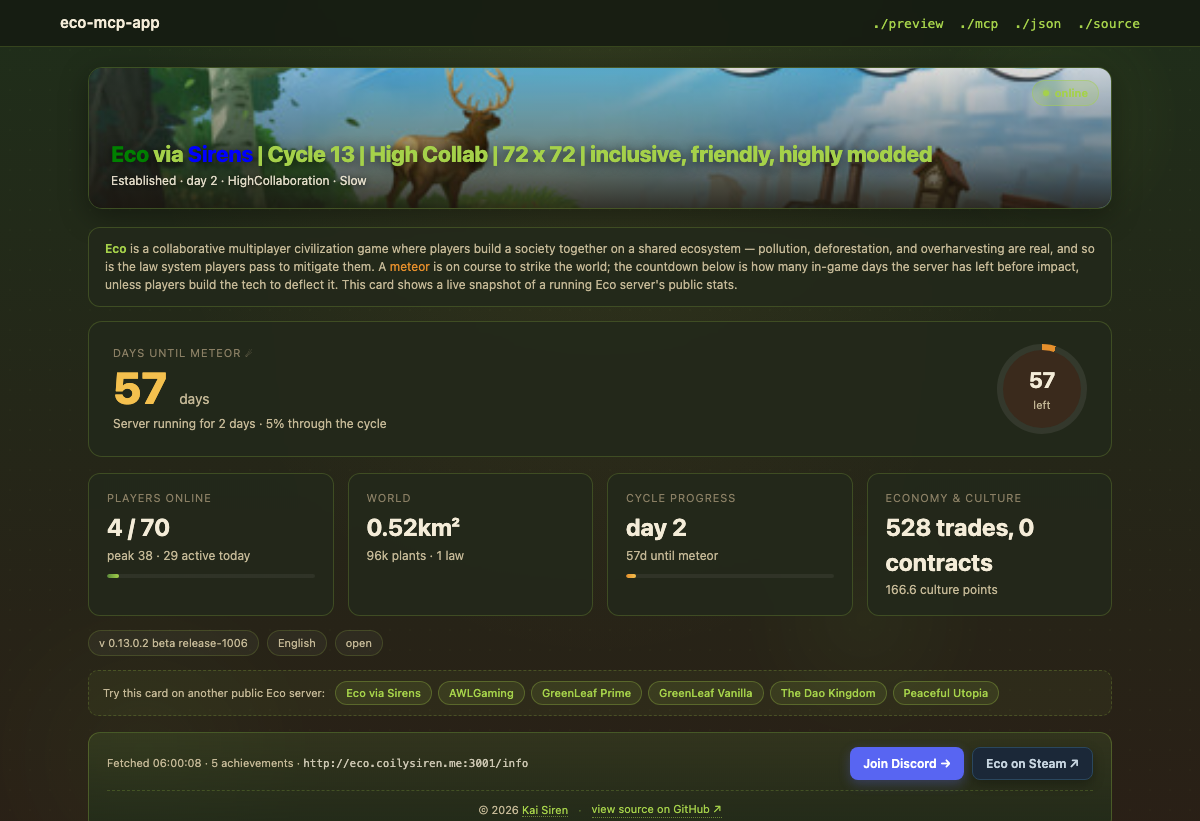
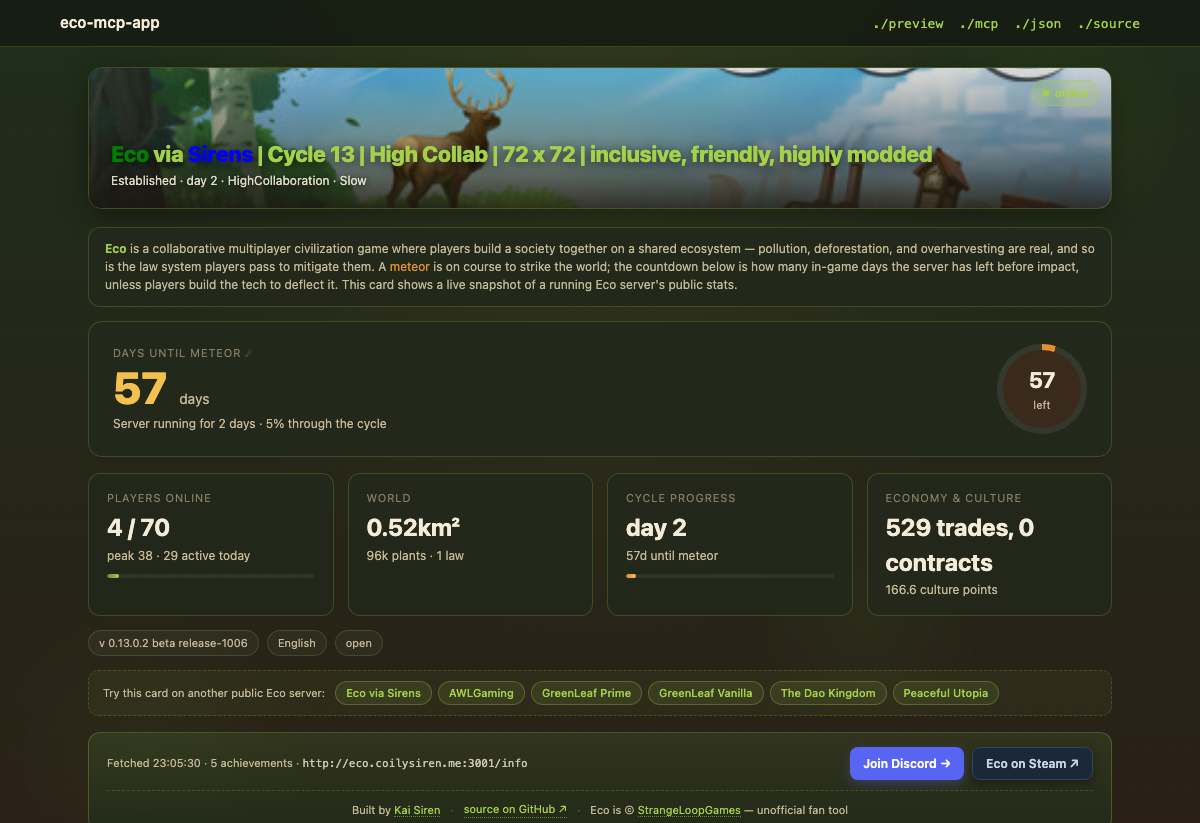
style(footer): match eco-spec-tracker credits format
Built by Kai Siren · source on GitHub ↗ · Eco is © StrangeLoopGames — unofficial fan tool

Drops the "© 2026" (keeping the SLG copyright is what matters for
attribution; the year has been bit-rotting across repos) and adds the
"unofficial fan tool" disclaimer that eco-spec-tracker's base.html
carries. docs/preview.png rescreenshot with the new footer.

diff --git a/src/eco_mcp_app/templates/partials/footer.html b/src/eco_mcp_app/templates/partials/footer.html
@@ -13,8 +13,10 @@
     </div>
   </div>
   <div class="credits-line">
-    <span>© 2026 <a href="https://www.coilysiren.me/" target="_blank" rel="noopener">Kai Siren</a></span>
+    <span>Built by <a href="https://www.coilysiren.me/" target="_blank" rel="noopener">Kai Siren</a></span>
     <span class="sep">·</span>
-    <a href="https://github.com/coilysiren/eco-mcp-app" target="_blank" rel="noopener">view source on GitHub ↗</a>
+    <a href="https://github.com/coilysiren/eco-mcp-app" target="_blank" rel="noopener">source on GitHub ↗</a>
+    <span class="sep">·</span>
+    <span>Eco is &copy; <a href="https://www.strangeloopgames.com/" target="_blank" rel="noopener">StrangeLoopGames</a> — unofficial fan tool</span>
   </div>
 </div>
